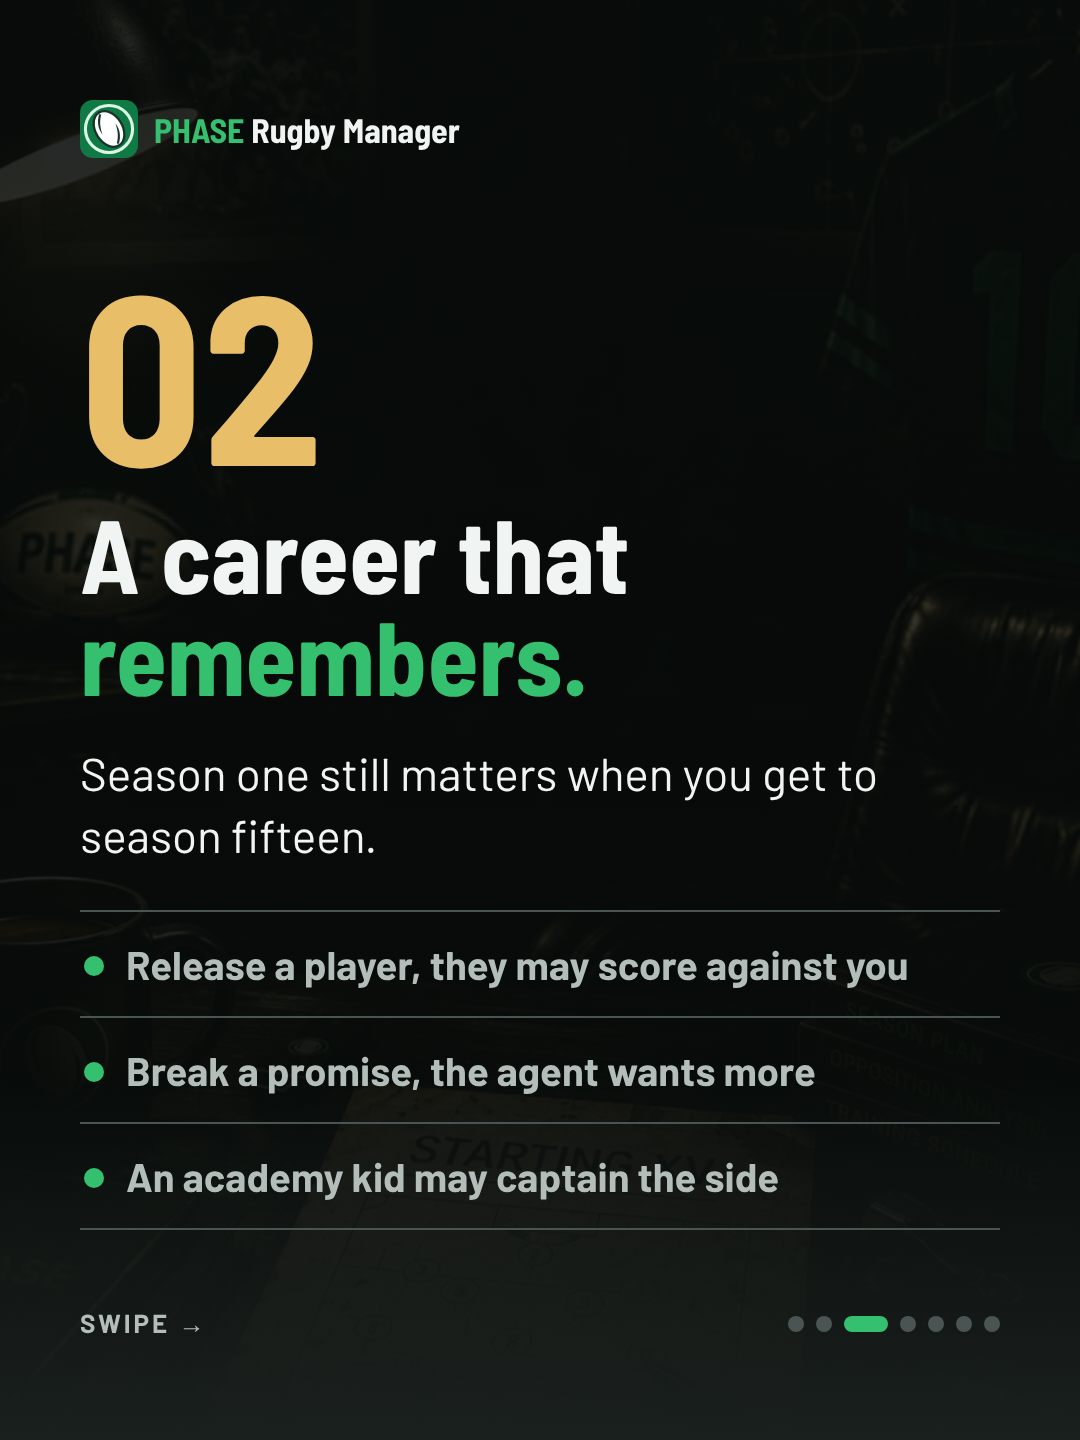
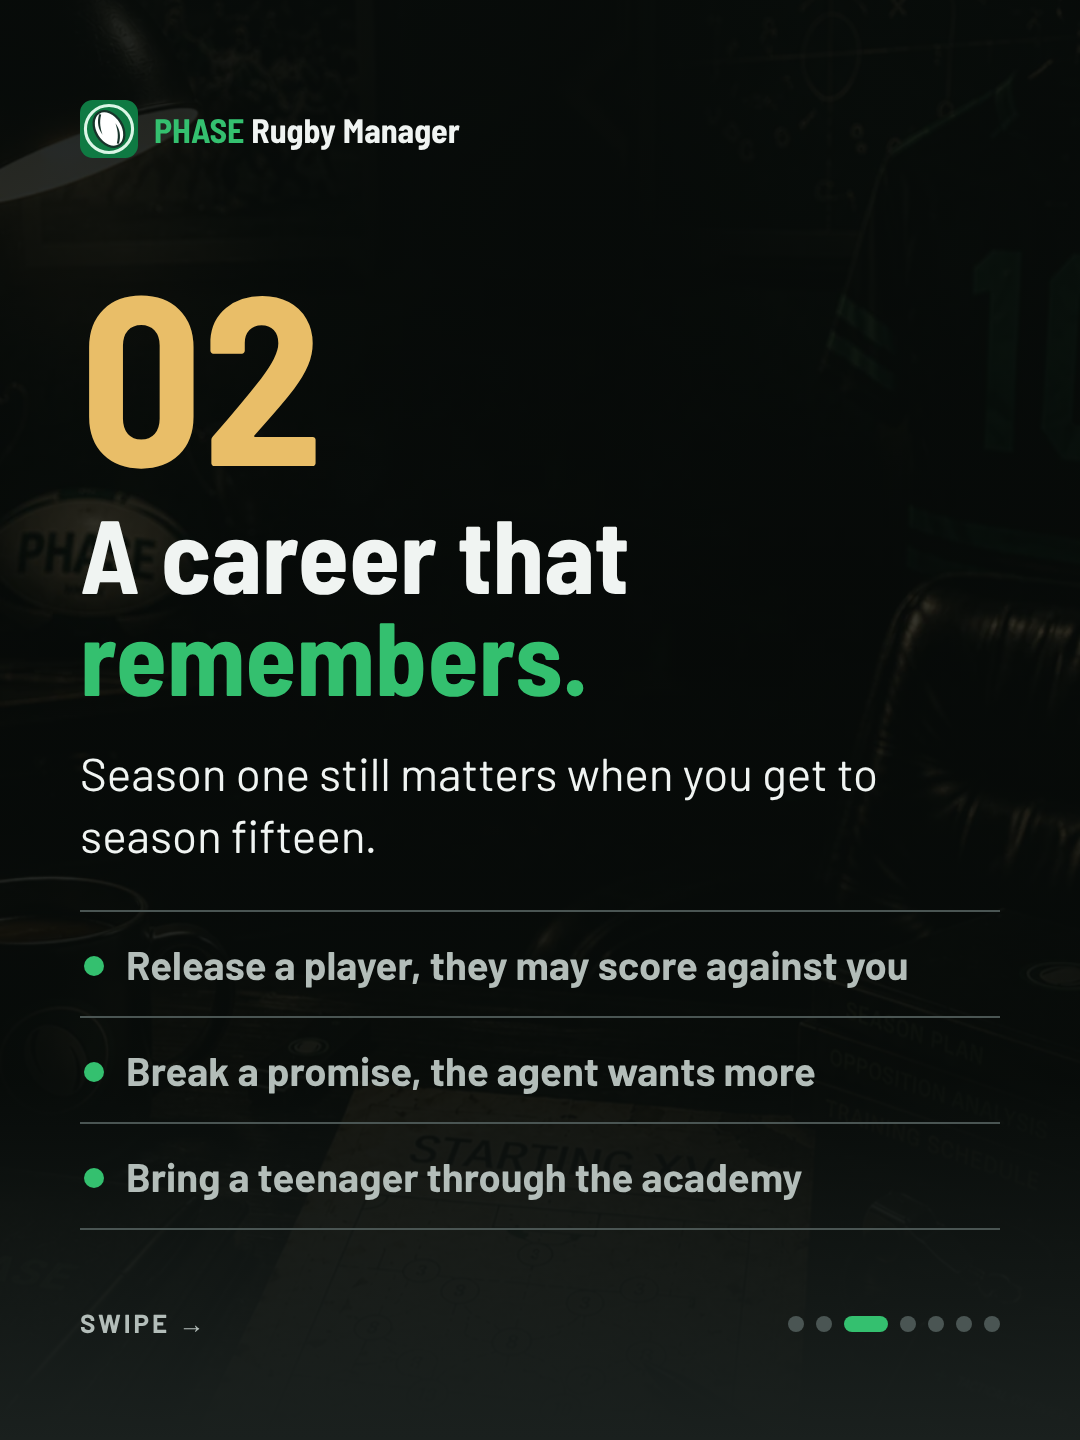
Carousel: copy fixes from review
Claude-Session: https://claude.ai/code/session_01SkkDyBEzPXwLzKDjPnHoVw

Changed region(s): [[0.1222, 0.8125, 0.7333, 0.8438]]

diff --git a/art/social/carousel-5-best/carousel.html b/art/social/carousel-5-best/carousel.html
@@ -60,7 +60,7 @@ body{background:#000}
   <div class="num">01</div>
   <div class="title">Two games.<br><em>One app.</em></div>
   <p class="body">The men's and the women's game, built the same way. Neither one bolted on.</p>
-  <ul class="list"><li>171 clubs across 15 leagues</li><li>107 men's clubs, 64 women's</li><li>Its own cup and Test calendar</li></ul>
+  <ul class="list"><li>171 clubs across 15 leagues</li><li>107 men's clubs, 64 women's</li><li>Own Test and cup calendar</li></ul>
   <div class="foot"><span>Swipe &rarr;</span><span class="dots"><i></i><i class="on"></i><i></i><i></i><i></i><i></i><i></i></span></div>
 </div></section>
 
@@ -69,7 +69,7 @@ body{background:#000}
   <div class="num">02</div>
   <div class="title">A career that<br><em>remembers.</em></div>
   <p class="body">Season one still matters when you get to season fifteen.</p>
-  <ul class="list"><li>Release a player, they may score against you</li><li>Break a promise, the agent wants more</li><li>An academy kid may captain the side</li></ul>
+  <ul class="list"><li>Release a player, they may score against you</li><li>Break a promise, the agent wants more</li><li>Bring a teenager through the academy</li></ul>
   <div class="foot"><span>Swipe &rarr;</span><span class="dots"><i></i><i></i><i class="on"></i><i></i><i></i><i></i><i></i></span></div>
 </div></section>
 
@@ -77,17 +77,17 @@ body{background:#000}
   <div class="brand"><img src="../../../landing/img/icon.svg" alt=""><span><b>PHASE</b> Rugby Manager</span></div>
   <div class="num">03</div>
   <div class="title">Saturday is<br><em>your call.</em></div>
-  <p class="body">Live text commentary and stats, with the pitch for the tries and big moments.</p>
+  <p class="body">Live text commentary and stats. Watch the tries and big moments on the pitch view.</p>
   <ul class="list"><li>The posts, the corner or the quick tap</li><li>Team talks and when to empty the bench</li><li>Five attack and five defence styles</li></ul>
   <div class="foot"><span>Swipe &rarr;</span><span class="dots"><i></i><i></i><i></i><i class="on"></i><i></i><i></i><i></i></span></div>
 </div></section>
 
 <section class="slide" style="--y:70%"><div class="bg"></div><div class="shade"></div><div class="inner">
   <div class="brand"><img src="../../../landing/img/icon.svg" alt=""><span><b>PHASE</b> Rugby Manager</span></div>
-  <div class="num">04</div>
+  <div class="num" style="margin-top:50px">04</div>
   <div class="title">Build the<br><em>whole club.</em></div>
   <p class="body">Every week brings a real decision, on the pitch and off it.</p>
-  <ul class="list"><li>Agents who haggle, loans and the cap</li><li>A board with an opinion of you</li><li>A press pack that remembers your promises</li></ul>
+  <ul class="list"><li>Agents who haggle and loan deals</li><li>The salary cap balance</li><li>A board with an opinion of you</li><li>A press pack that remembers your statements</li></ul>
   <div class="foot"><span>Swipe &rarr;</span><span class="dots"><i></i><i></i><i></i><i></i><i class="on"></i><i></i><i></i></span></div>
 </div></section>
 
